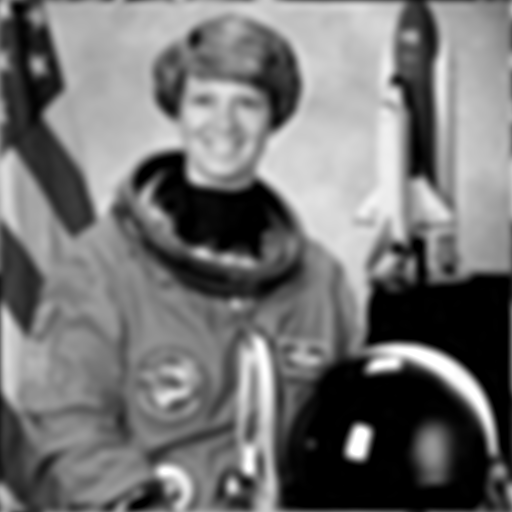
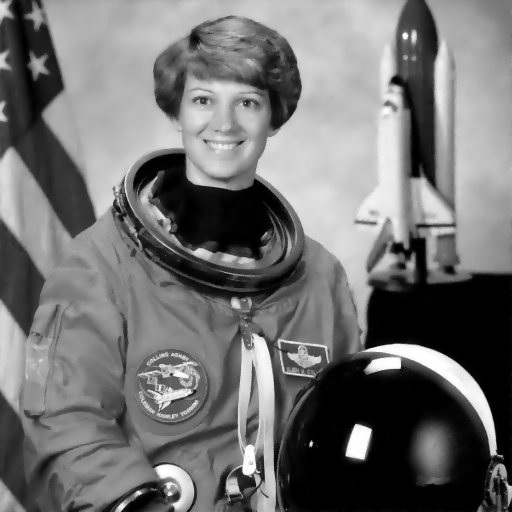
Working with matching results! Forgot to build as release to fix speed issue. Fixed some wrong scaling.

diff --git a/src/main.rs b/src/main.rs
@@ -84,12 +84,12 @@ fn proj_p(p: &ArrayView3<f32>, alpha1: &f32) -> Array3<f32> {
     let norm = (p.slice(s![.., .., 0]).map(|x| x.powi(2)) 
         + p.slice(s![.., .., 1]).map(|x| x.powi(2)))
         .sqrt();
-    let factor = norm.map(|x| if x > alpha1 { 1. } else { x / alpha1 });
+    let factor = norm.map(|x| if (x / alpha1) > 1. { x / alpha1 } else { 1. });
     let mut p_proj = p.to_owned();
     let mut slice1 = p_proj.slice_mut(s![.., .., 0]);
-    slice1 *= &factor;
+    slice1 /= &factor;
     let mut slice2 = p_proj.slice_mut(s![.., .., 1]);
-    slice2 *= &factor;
+    slice2 /= &factor;
     p_proj
 }
 
@@ -98,14 +98,14 @@ fn proj_q(q: &ArrayView3<f32>, alpha0: &f32) -> Array3<f32> {
         + q.slice(s![.., .., 1]).map(|x| x.powi(2)) 
         + q.slice(s![.., .., 2]).map(|x| x.powi(2)))
         .sqrt();
-    let factor = norm.map(|x| if x > alpha0 { 1. } else { x / alpha0 });
+    let factor = norm.map(|x| if (x / alpha0) > 1. { x / alpha0 } else { 1. });
     let mut q_proj = q.to_owned();
     let mut slice1 = q_proj.slice_mut(s![.., .., 0]);
-    slice1 *= &factor;
+    slice1 /= &factor;
     let mut slice2 = q_proj.slice_mut(s![.., .., 1]);
-    slice2 *= &factor;
+    slice2 /= &factor;
     let mut slice3 = q_proj.slice_mut(s![.., .., 2]);
-    slice3 *= &factor;
+    slice3 /= &factor;
     q_proj
 }
 
@@ -184,10 +184,10 @@ fn main() {
 
     println!("grayscale_img min is {:?}", (&grayscale_img).into_iter().reduce(|a, b| if a < b { a } else { b }));
     println!("grayscale_img max is {:?}", (&grayscale_img).into_iter().reduce(|a, b| if a > b { a } else { b }));
-    
+
     let noisy_img = GrayImage::from_raw(img.shape()[0] as u32, img.shape()[1] as u32, (&grayscale_img).into_iter().map(|x| *x as u8).collect()).unwrap();
     noisy_img.save("noisy_img.png").unwrap();
-    let denoised_img = tgv_denoise(&grayscale_img.view(), 1e-3, 2.0, 1.0, 0.125, 0.125, 300);
+    let denoised_img = tgv_denoise(&grayscale_img.view(), 10.0, 2.0, 1.0, 0.125, 0.125, 300);
     let denoised_img = denoised_img.map(|x| *x as u8);
     let denoised_img = GrayImage::from_raw(img.shape()[0] as u32, img.shape()[1] as u32, denoised_img.into_iter().collect()).unwrap();
     denoised_img.save("denoised_img.png").unwrap();

diff --git a/tgv_template.py b/tgv_template.py
@@ -136,7 +136,7 @@ if __name__ == "__main__":
     noisy_img = np.clip(img, 0, 255).astype(np.uint8)
     Image.fromarray(noisy_img, mode='L').save("noisy_img_py.png")
     print(noisy_img.min(), noisy_img.max())
-    denoised_img = tgv_denoise(noisy_img.astype(np.float32), 1e-3, 2.0, 1.0, 0.125, 0.125, 300)
+    denoised_img = tgv_denoise(noisy_img.astype(np.float32), 10., 2.0, 1.0, 0.125, 0.125, 300)
     print(denoised_img.min(), denoised_img.max())
     denoised_img = np.clip(denoised_img, 0, 255).astype(np.uint8)
     Image.fromarray(denoised_img, mode='L').save("denoised_img_py.png")
